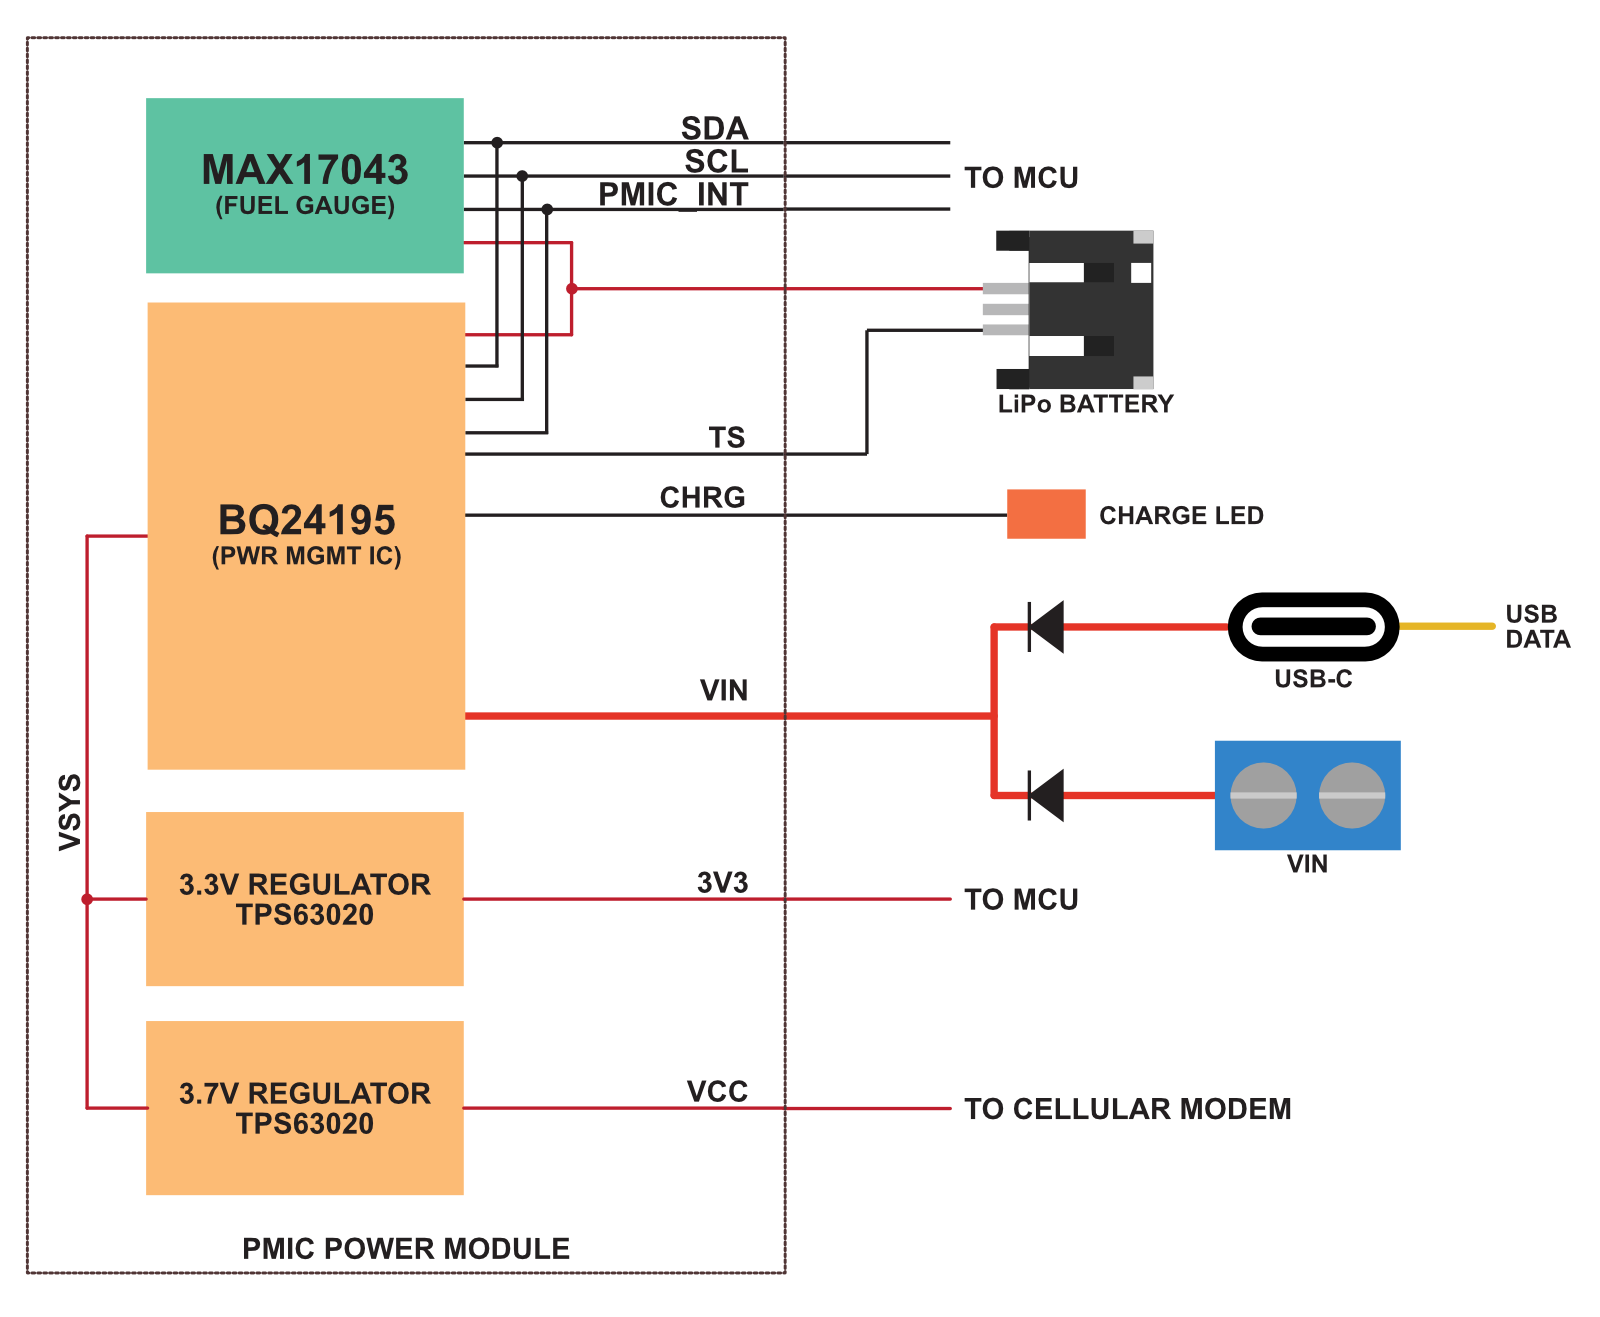
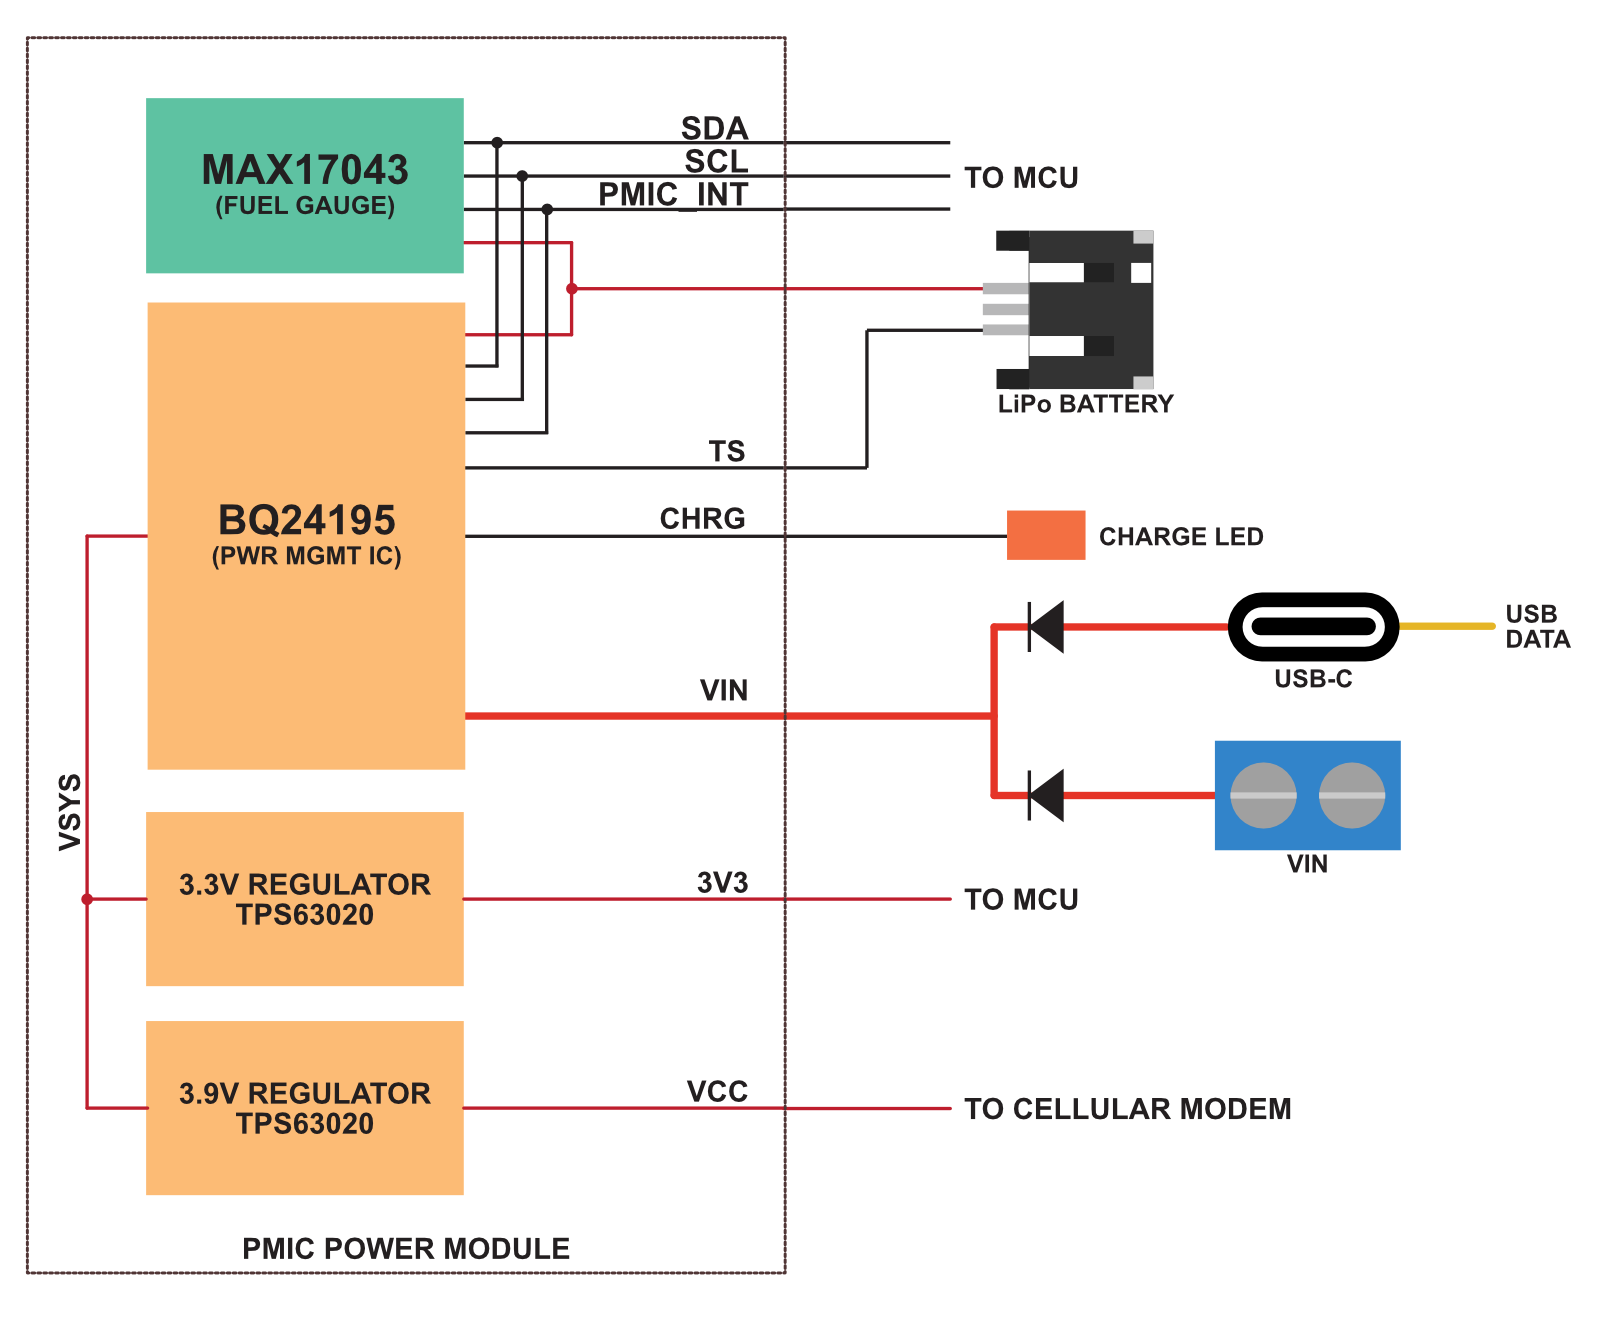
Power module

Changed region(s): [[0.625, 0.3736, 0.8125, 0.4358], [0.2812, 0.3113, 0.5312, 0.4047], [0.125, 0.8094, 0.1562, 0.8405]]

diff --git a/src/content/hardware/power/power-module-datasheet.md b/src/content/hardware/power/power-module-datasheet.md
@@ -5,7 +5,7 @@ layout: commonTwo.hbs
 description: Power module datasheet
 ---
 
-# Power module datasheet}
+# Power module datasheet
 
 {{box op="start" cssClass="boxed warningBox"}}
 This is a preliminary datasheet for review only. Changes are likely before release.
@@ -15,11 +15,11 @@ This is a preliminary datasheet for review only. Changes are likely before relea
 
 The Particle power module is a small castellated module intended to be reflow soldered to your M.2 SoM base board. It contains:
 
-- bq24195 PMIC (charge controller and regulator)
-- MAX17043 fuel gauge (LiPo battery charge sensor)
-- 3.3V regulator for MCU (2A)
-- 3.7V regulator for cellular modem (2A)
 - 5V to 17VDC input
+- 3.3V regulated output for MCU (2A)
+- 3.6V - 3.9V output for cellular modem (2A)
+- bq24195 PMIC (power management and charge controller)
+- MAX17043 fuel gauge (LiPo battery charge sensor)
 
 
 ## Block diagram
@@ -31,6 +31,10 @@ The Particle power module is a small castellated module intended to be reflow so
 
 {{imageOverlay src="/assets/images/power-module/power-module-dimensions.png" alt="Dimensions" class="full-width"}}
 
+<p class="attribution">Dimensions in mm</p>
+
+- Module is 40mm x 27mm (1.57" x 1.06")
+- Castellated holes are 2.54mm (0.1") apart
 
 ## Pinout
 
@@ -41,18 +45,18 @@ The Particle power module is a small castellated module intended to be reflow so
 
 | Pin | Pin Name | Description |
 | :---: | :--- | :--- |
-| 1 | 3V3 | Power output 3.3V |
-| 2 | 3V3 | Power output 3.3V |
+| 1 | 3V3 | Power output 3.3V A |
+| 2 | 3V3 | Power output 3.3V A |
 | 3 | 5V | Power output 5V (not available on PMIC power module) |
 | 4 | 5V | Power output 5V (not available on PMIC power module) |
-| 5 | VCC | Power output 3.7V for cellular modem |
-| 6 | VCC | Power output 3.7V for cellular modem |
+| 5 | VCC | Power output 3.9V 2A for cellular modem |
+| 6 | VCC | Power output 3.9V 2A for cellular modem |
 | 7 | NC | Leave unconnected |
 | 8 | NC | Leave unconnected |
 | 9 | GND | Ground |
 | 10 | GND | Ground |
-| 11 | VIN | Power in (6V - 17V on PMIC power module) |
-| 12 | VIN | Power in (6V - 17V on PMIC power module) |
+| 11 | VIN | Power in (5V - 17V on PMIC power module) |
+| 12 | VIN | Power in (5V - 17V on PMIC power module) |
 | 13 | SCL | I2C SCL. No internal pull. |
 | 14 | SDA | I2C SDA. No internal pull. |
 | 15 | INT | PMIC_INT interrupt output. Connect to SoM D22. |
@@ -79,6 +83,8 @@ The Particle power module is a small castellated module intended to be reflow so
 
 {{imageOverlay src="/assets/images/power-module/power-land.png" alt="Land pattern" class="full-width"}}
 
+<p class="attribution">Dimensions in mm</p>
+
 ## Schematic 
 
 {{imageOverlay src="/assets/images/power-module/power-module-schematic.svg" alt="Module schematic" class="full-width"}}
@@ -86,3 +92,10 @@ The Particle power module is a small castellated module intended to be reflow so
 ## Ordering information
 
 To be provided at a later date.
+
+
+## Version history
+
+| Revision | Date | Author | Comments |
+|:---------|:-----|:-------|:---------|
+| pre      | 2024-02-27 | RK | Initial version |
